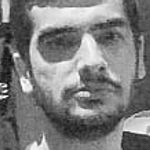
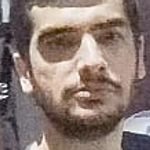
Remove grayscale

diff --git a/face-detector.js b/face-detector.js
@@ -42,10 +42,10 @@ async function saveFace(path, box, suffix) {
   }
   //If all params is ok, and the face are is valid try extract
   try {
-    await sharp(path).extract(region).resize(size, size).greyscale().toFile(imgPath)
+    await sharp(path).extract(region).resize(size, size).toFile(imgPath)
   //When error try resize
   } catch {
-    await sharp(path).resize(region).resize(size, size).greyscale().toFile(imgPath)
+    await sharp(path).resize(region).resize(size, size).toFile(imgPath)
   }
 }
 
